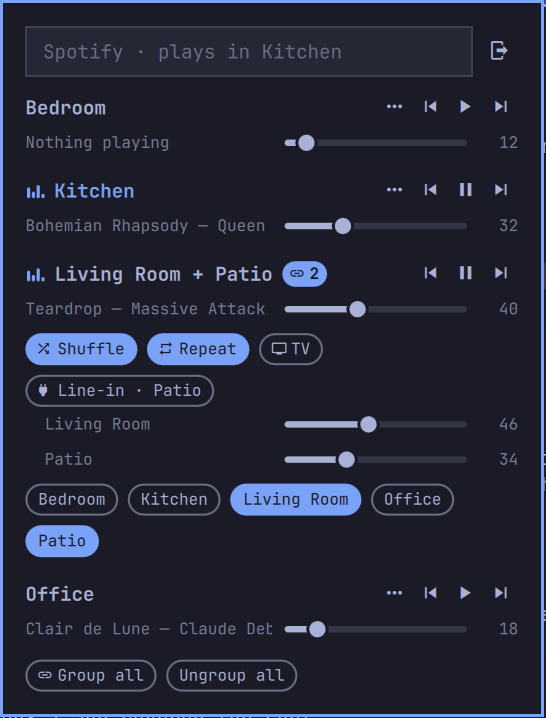
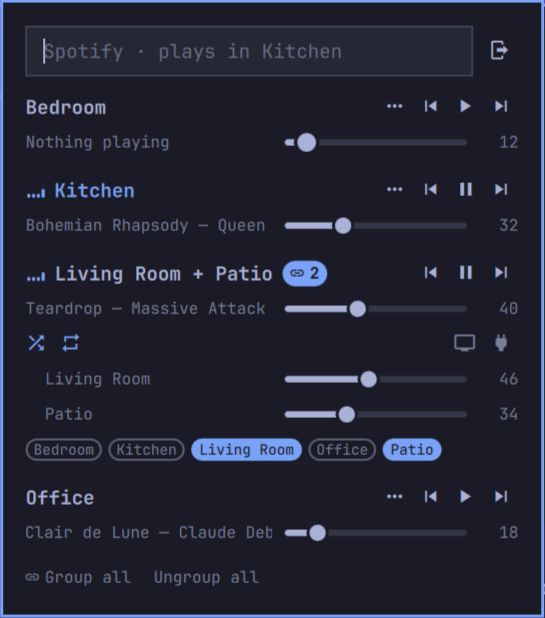
Calmer expanded view; live demo GIF
- Shuffle/repeat and TV/line-in as icons on one toolbar, apart
- Rooms as small pills, so they don't look like speaker names
- Group all / Ungroup all as text links
- demo.gif: changes made elsewhere arriving live; new preview

diff --git a/BarWidget.qml b/BarWidget.qml
@@ -423,40 +423,70 @@ Panel {
     }
   }
 
-  // A rounded toggle used for rooms, play modes and inputs.
-  component Chip: Rectangle {
-    id: chip
+  // Tappable text: accent and bold when selected, dim otherwise. Pulses
+  // while a change waits for the speakers.
+  component TextToggle: Text {
+    id: toggle
     property string label: ""
     property bool selected: false
     property bool pending: false
     signal tapped()
-    width: chipLabel.implicitWidth + Style.space(16)
-    height: chipLabel.implicitHeight + Style.space(6)
-    radius: height / 2
-    color: selected ? Color.accent : "transparent"
-    border.width: 1
-    border.color: selected ? Color.accent : Qt.darker(root.bar.foreground, 1.6)
+    text: label
+    textFormat: Text.PlainText
+    color: selected ? Color.accent : root.dim
+    font.family: root.bar.fontFamily
+    font.pixelSize: Style.font.caption
+    font.bold: selected
+    topPadding: Style.space(2)
+    bottomPadding: Style.space(2)
 
-    Text {
-      id: chipLabel
-      anchors.centerIn: parent
-      text: chip.label
-      textFormat: Text.PlainText
-      color: chip.selected ? root.bar.background : root.bar.foreground
-      font.family: root.bar.fontFamily
-      font.pixelSize: Style.font.caption
-    }
-
-    // Pulses until the speakers confirm the change.
     SequentialAnimation on opacity {
-      running: chip.pending
+      running: toggle.pending
       loops: Animation.Infinite
-      onRunningChanged: if (!running) chip.opacity = 1
+      onRunningChanged: if (!running) toggle.opacity = 1
       NumberAnimation { to: 0.35; duration: 450; easing.type: Easing.InOutSine }
       NumberAnimation { to: 1; duration: 450; easing.type: Easing.InOutSine }
     }
 
-    TapHandler { onTapped: chip.tapped() }
+    HoverHandler { cursorShape: Qt.PointingHandCursor }
+    TapHandler { onTapped: toggle.tapped() }
+  }
+
+  // A small outlined pill for picking rooms; filled when the room is in the group.
+  component Pill: Rectangle {
+    id: pill
+    property string label: ""
+    property bool selected: false
+    property bool pending: false
+    signal tapped()
+    width: pillLabel.implicitWidth + Style.space(10)
+    height: pillLabel.implicitHeight + Style.space(2)
+    radius: height / 2
+    color: selected ? Color.accent : "transparent"
+    border.width: 1
+    border.color: selected ? Color.accent : Qt.darker(root.bar.foreground, 1.8)
+
+    Text {
+      id: pillLabel
+      anchors.centerIn: parent
+      text: pill.label
+      textFormat: Text.PlainText
+      color: pill.selected ? root.bar.background : root.dim
+      font.family: root.bar.fontFamily
+      font.pixelSize: Math.round(Style.font.caption * 0.9)
+    }
+
+    // Pulses until the speakers confirm the join or leave.
+    SequentialAnimation on opacity {
+      running: pill.pending
+      loops: Animation.Infinite
+      onRunningChanged: if (!running) pill.opacity = 1
+      NumberAnimation { to: 0.35; duration: 450; easing.type: Easing.InOutSine }
+      NumberAnimation { to: 1; duration: 450; easing.type: Easing.InOutSine }
+    }
+
+    HoverHandler { cursorShape: Qt.PointingHandCursor }
+    TapHandler { onTapped: pill.tapped() }
   }
 
   component Caption: Text {
@@ -948,42 +978,57 @@ Panel {
                 }
               }
 
-              // ---------- Expanded: play modes and inputs, speaker volumes, grouping chips ----------
-              Flow {
-                id: modes
+              // ---------- Expanded: toolbar, speaker volumes, rooms ----------
+              // Play modes on the left, inputs on the right.
+              Item {
+                id: toolbar
                 readonly property bool fromInput: row.model.source === "tv" || row.model.source === "line-in"
                 readonly property bool shuffle: (root.playModes[row.model.playMode] || [false, ""])[0]
                 readonly property string repeat: (root.playModes[row.model.playMode] || [false, ""])[1]
+                readonly property var inputs: row.expanded ? root.inputsFor(row.model) : []
                 visible: row.expanded
                 width: parent.width
-                spacing: Style.space(6)
-                topPadding: Style.space(4)
+                implicitHeight: Math.max(modeButtons.implicitHeight, inputButtons.implicitHeight)
 
                 // TV and line-in have no queue, so shuffle and repeat only show for music.
-                Chip {
-                  visible: !modes.fromInput
-                  label: root.iconShuffle + " Shuffle"
-                  selected: modes.shuffle
-                  onTapped: root.setPlayMode(row.model, !modes.shuffle, modes.repeat)
-                }
-                Chip {
-                  visible: !modes.fromInput
-                  label: (modes.repeat === "one" ? root.iconRepeatOne : root.iconRepeat)
-                    + (modes.repeat === "one" ? " Repeat one" : " Repeat")
-                  selected: modes.repeat !== ""
-                  onTapped: root.setPlayMode(row.model, modes.shuffle,
-                    modes.repeat === "" ? "all" : modes.repeat === "all" ? "one" : "")
+                Row {
+                  id: modeButtons
+                  visible: !toolbar.fromInput
+                  anchors.left: parent.left
+                  anchors.leftMargin: -Style.space(4)
+
+                  PanelActionButton {
+                    iconText: root.iconShuffle
+                    tooltipText: toolbar.shuffle ? "Shuffle is on" : "Shuffle"
+                    foreground: toolbar.shuffle ? Color.accent : root.dim
+                    fontFamily: root.bar.fontFamily
+                    onClicked: root.setPlayMode(row.model, !toolbar.shuffle, toolbar.repeat)
+                  }
+                  PanelActionButton {
+                    iconText: toolbar.repeat === "one" ? root.iconRepeatOne : root.iconRepeat
+                    tooltipText: toolbar.repeat === "" ? "Repeat" : toolbar.repeat === "all" ? "Repeat all" : "Repeat one"
+                    foreground: toolbar.repeat !== "" ? Color.accent : root.dim
+                    fontFamily: root.bar.fontFamily
+                    onClicked: root.setPlayMode(row.model, toolbar.shuffle,
+                      toolbar.repeat === "" ? "all" : toolbar.repeat === "all" ? "one" : "")
+                  }
                 }
 
-                Repeater {
-                  model: row.expanded ? root.inputsFor(row.model) : []
+                Row {
+                  id: inputButtons
+                  anchors.right: parent.right
 
-                  Chip {
-                    required property var modelData
-                    label: modelData.kind === "tv" ? root.iconTv + " TV"
-                      : root.iconLineIn + " Line-in" + (row.members > 1 ? " · " + modelData.room.name : "")
-                    selected: row.model.source === modelData.kind
-                    onTapped: root.playInput(row.model, modelData.room, modelData.kind)
+                  Repeater {
+                    model: toolbar.inputs
+
+                    PanelActionButton {
+                      required property var modelData
+                      iconText: modelData.kind === "tv" ? root.iconTv : root.iconLineIn
+                      tooltipText: modelData.kind === "tv" ? "Play the TV" : "Play line-in on " + modelData.room.name
+                      foreground: row.model.source === modelData.kind ? Color.accent : root.dim
+                      fontFamily: root.bar.fontFamily
+                      onClicked: root.playInput(row.model, modelData.room, modelData.kind)
+                    }
                   }
                 }
               }
@@ -1036,20 +1081,20 @@ Panel {
               Flow {
                 visible: row.expanded
                 width: parent.width
-                spacing: Style.space(6)
+                spacing: Style.space(4)
                 topPadding: Style.space(4)
                 bottomPadding: Style.space(4)
 
                 Repeater {
                   model: row.expanded ? roomModel : 0
 
-                  Chip {
-                    id: chip
+                  Pill {
+                    id: roomToggle
                     required property var model
                     label: model.name
                     selected: model.group === row.model.ip
                     pending: model.ip in root.pendingGroups && !root.pendingGroups[model.ip].quiet
-                    onTapped: root.toggleMember(chip.model, row.model)
+                    onTapped: root.toggleMember(roomToggle.model, row.model)
                   }
                 }
               }
@@ -1058,15 +1103,15 @@ Panel {
 
           Row {
             visible: root.query === "" && root.rooms.length > 1
-            spacing: Style.space(6)
+            spacing: Style.space(14)
 
-            Chip {
+            TextToggle {
               visible: root.groups.length > 1
               label: root.iconLink + " Group all"
               onTapped: root.regroupAll(true)
             }
 
-            Chip {
+            TextToggle {
               visible: root.groups.length < root.rooms.length
               label: "Ungroup all"
               onTapped: root.regroupAll(false)

diff --git a/README.md b/README.md
@@ -2,7 +2,7 @@
 
 A fast Sonos bar widget for the Omarchy shell. A speaker icon in the bar opens a compact popup with every room or group: what's playing, play/pause/skip, volume and mute, shuffle and repeat, TV and line-in, room grouping and Spotify search. Media keys control Sonos too.
 
-![The Sonos popup: rooms with playback controls, a grouped room expanded to shuffle, repeat, TV and line-in, per-speaker volume and room chips](preview.png)
+![The Sonos popup: rooms with playback controls, a grouped room expanded to shuffle and repeat, TV and line-in, per-speaker volume and room pills](preview.png)
 
 ## Built for speed
 
@@ -13,6 +13,8 @@ The official Sonos apps feel sluggish. This widget is built to be the opposite:
 - **Always running:** the helper stays alive next to the shell, so a click never waits for anything to start.
 - **No one-second stalls:** speakers on Wi-Fi sometimes drop the first packet of a connection and TCP waits a full second to retry. The helper races a fresh attempt every 150 ms instead.
 - **Live state:** while the popup is open it reads every speaker once a second, so changes from the Sonos app, other people or the buttons on a speaker show up within a second.
+
+![Changes made elsewhere arriving live: a room pauses, shuffle turns off, another room starts, Bedroom joins Kitchen and a volume moves](demo.gif)
 - **Fast search:** the Spotify connection is opened when the popup opens and reused, so results arrive as you type.
 
 ## Install
@@ -37,7 +39,7 @@ The second line removes the Spotify login and the cached speaker addresses and i
 - **Bar icon:** left click opens the popup. Middle click plays/pauses. Scroll changes the volume of the room that's playing.
 - **Rooms:** each group shows an animated spectrum while playing. Long room names and song titles roll so they can be read in full. Click a room's name to make it the one search and media keys control.
 - **Mute:** tap the volume number. It turns into a mute icon until you tap it again.
-- **More per room:** the ⋯ button on a room (the 🔗 badge on a group) expands a room to shuffle and repeat, TV and line-in inputs where the speakers have them, one volume slider per speaker and chips for every room. Tap a room chip to add or remove that room; it pulses until Sonos confirms.
+- **More per room:** the ⋯ button on a room (the 🔗 badge on a group) expands it. Shuffle and repeat sit on the left, TV and line-in on the right where the speakers have them. Below are one volume slider per speaker and a pill for every room: tap a pill to add or remove that room; it pulses until Sonos confirms.
 - **Group all / Ungroup all:** under the rooms. Group all joins every room into the highlighted one.
 - **Media keys:** play/pause, next and previous control the highlighted room through Omarchy's media controls. This needs `python-gobject`, which Omarchy ships.
 - **Errors:** if a speaker refuses something (shuffle on TV input, say) the room shows why for a few seconds in red.
